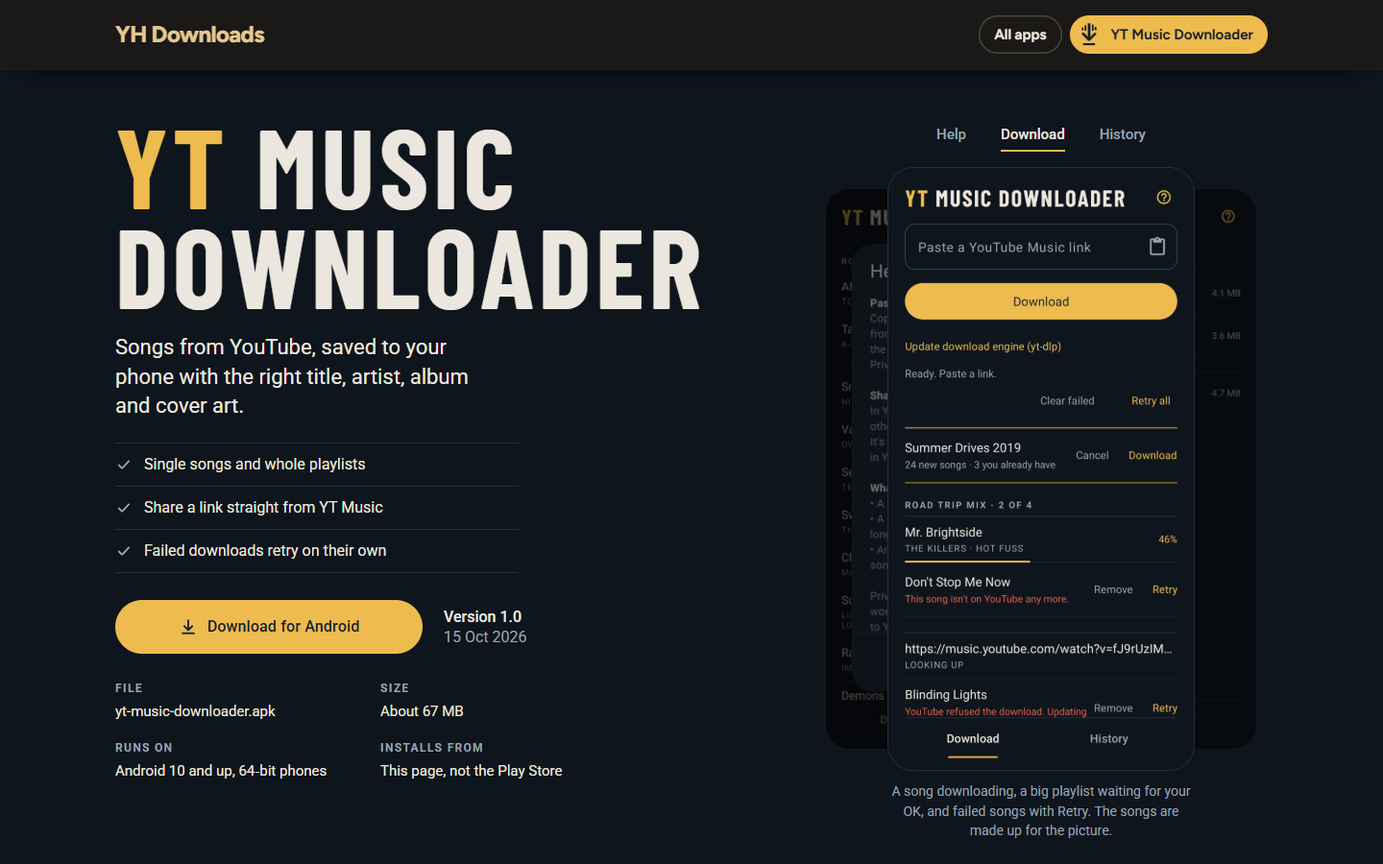
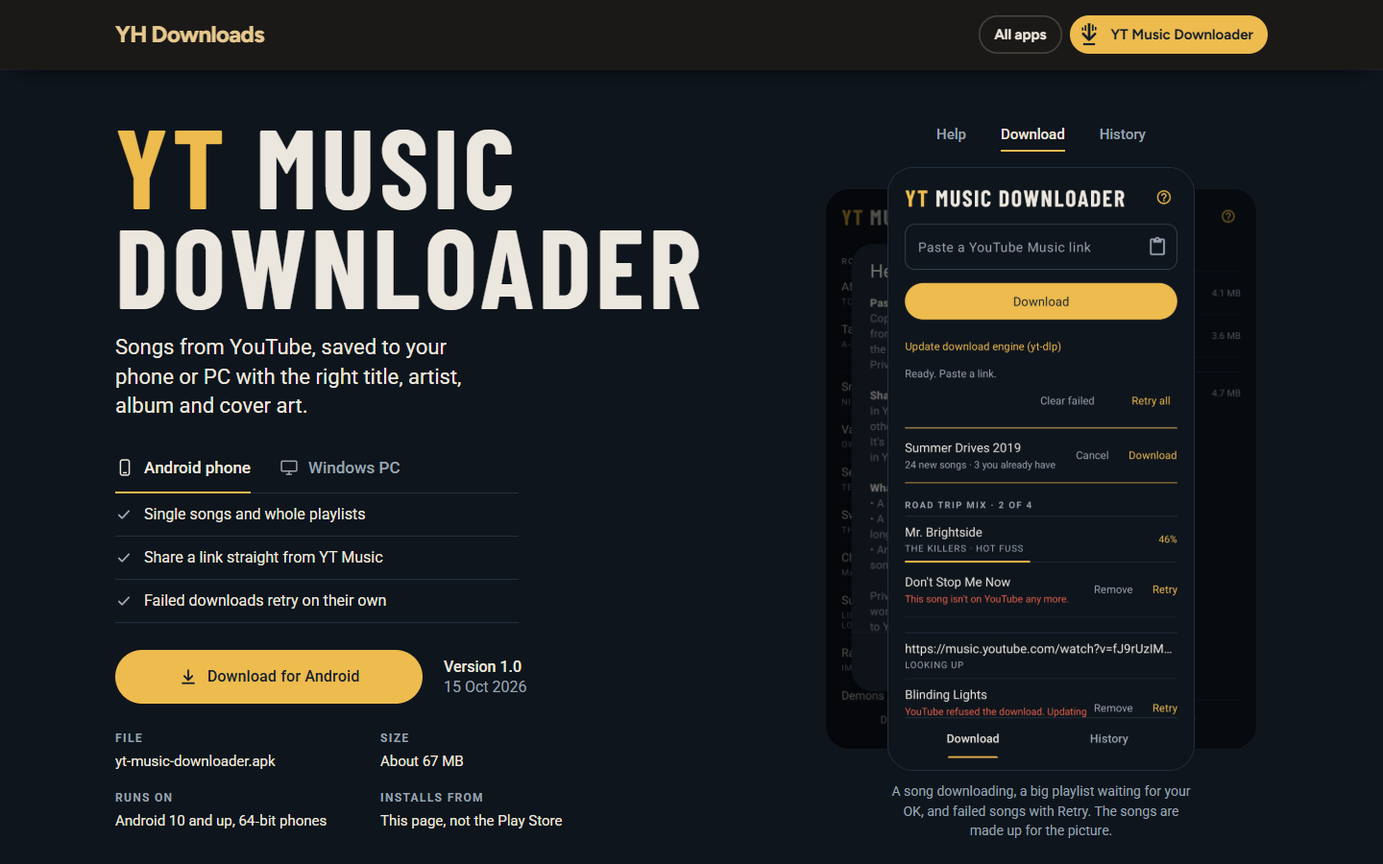
site: finish review fixes for the Windows version and the two-button card
Impeccable's finish review of the 26 Oct parts. All 7 fixes, plus the gap
under the Windows switch:
- What it's for's lists side by side only from 1100px
- Version and date under the button at 760-919px
- Window pictures 280px at 760-1279px, switch labels never wrap
- File credit gets its own row on phones
- Windows Setup step 1's file name never breaks
- Catalogue: versions under the buttons at 760-899px, buttons capped under 760px
- Windows facts sit right under the switch, like Android

DESIGN.md, the surface briefs and finish-review.md cover the new parts.

Changed region(s): [[0.0625, 0.6844, 0.4062, 0.9644], [0.0625, 0.5289, 0.2812, 0.6533], [0.0938, 0.4044, 0.3438, 0.4978]]

diff --git a/yt-music-downloader/index.html b/yt-music-downloader/index.html
@@ -95,6 +95,8 @@ b{font-weight:500; color:var(--ink)}
 .specs div{min-width:0}
 .specs dt{font-size:11.5px; font-weight:700; letter-spacing:.14em; text-transform:uppercase; color:var(--grey)}
 .specs dd{margin:4px 0 0; font-size:15px; overflow-wrap:anywhere}
+/* On phones the file name gets a whole row, so it doesn't break in the middle. */
+@media (max-width:559px){.specs div:first-child{grid-column:1 / -1}}
 
 /* The app, as three real phone screenshots in a stack: the one showing in front in the
    middle, the other two peeking out behind it, one each side. Text tabs over it, in the
@@ -137,6 +139,8 @@ b{font-weight:500; color:var(--ink)}
 .steps .t{padding-top:6px}
 .s{display:block; margin-top:2px; font-size:15px; line-height:1.45; color:var(--grey)}
 .or{margin:0 0 0 50px; font-size:15px; color:var(--grey)}
+/* A file name in a step never breaks at its hyphens. */
+.whole{white-space:nowrap}
 
 /* Between the groups of sections, a sound wave instead of a plain line. Its gold part
    is how much has "played": a third, two thirds, then all of it by the FAQ. Where the
@@ -217,7 +221,9 @@ b{font-weight:500; color:var(--ink)}
   .dots{display:block; flex:1 1 20px; min-width:20px; align-self:flex-end; margin-bottom:10px; border-bottom:2px dotted var(--outline)}
   .yes .s,.no .s{flex:none; margin:0; font-size:15px; white-space:nowrap}
 }
-@media (min-width:760px){
+/* Side by side only where both lists have room for their notes. Below that, "Made
+   for" sits above "Not", like on phones. */
+@media (min-width:1100px){
   .both{grid-template-columns:repeat(2,minmax(0,1fr)); padding:30px 0}
   .both > div{padding:0 34px}
   .both > div + div{border-left:1px solid var(--highest)}
@@ -290,13 +296,15 @@ html[data-os="windows"] [data-for="android"]{display:none !important}
 
 /* The switch: the app's text tabs, bigger, with a drawn phone and a drawn PC. */
 .os{display:flex; gap:30px; max-width:420px; margin:26px 0 0; border-bottom:1px solid var(--highest)}
-.os button{position:relative; display:inline-flex; align-items:center; gap:10px; min-height:48px; padding:10px 0 14px; border:0; background:none; color:var(--grey); font:500 17px/1.2 'Roboto',sans-serif; cursor:pointer}
+.os button{position:relative; display:inline-flex; align-items:center; gap:10px; min-height:48px; padding:10px 0 14px; border:0; background:none; color:var(--grey); font:500 17px/1.2 'Roboto',sans-serif; white-space:nowrap; cursor:pointer}
 .os button svg{width:20px; height:20px; flex:none}
 .os button::after{content:""; position:absolute; left:0; right:0; bottom:-1px; height:2px; background:var(--gold); transform:scaleX(0); transition:transform .35s cubic-bezier(.16,1,.3,1)}
 .os button[aria-selected="true"]{color:var(--ink)}
 .os button[aria-selected="true"]::after{transform:scaleX(1)}
 @media (hover:hover){.os button:hover{color:var(--ink)}}
-.os + .facts{margin-top:0; border-top:0}
+/* The facts sit right under the switch, with no line of their own on top. "~", not "+",
+   cause on Windows the hidden Android facts come between them. */
+.os ~ .facts{margin-top:0; border-top:0}
 /* The same switch again where the details start, for someone who scrolled down. */
 .again{grid-column:1 / -1; display:flex; flex-wrap:wrap; align-items:center; column-gap:22px; row-gap:6px; margin-top:-12px}
 .again p{margin:0; font-size:15px; color:var(--grey)}
@@ -334,7 +342,13 @@ html[data-os="windows"] [data-for="android"]{display:none !important}
   .intro{grid-template-rows:repeat(6,auto) 1fr}
   .os{grid-column:1}
   .shots{grid-row:2 / span 6}
-  .shots.win{--w:300px}
+  .shots.win{--w:280px}
+}
+/* Narrow tablets: the version and date go on one line under the button, so the
+   pictures beside them don't cover them. */
+@media (min-width:760px) and (max-width:919px){
+  .get{flex-wrap:wrap; row-gap:10px}
+  .ver{flex-direction:row}
 }
 @media (min-width:1280px){
   .intro{grid-template-rows:repeat(6,auto) 1fr}
@@ -520,7 +534,7 @@ html[data-os="windows"] [data-for="android"]{display:none !important}
       <p class="hint">Tap a step to see its screen.</p>
       <div class="pair">
         <ol class="steps">
-          <li><span><span class="t">Download it</span><span class="s">Then open <b>yt-music-downloader-setup.exe</b>.</span></span></li>
+          <li><span><span class="t">Download it</span><span class="s">Then open <b class="whole">yt-music-downloader-setup.exe</b>.</span></span></li>
           <li class="on" data-shot="smartscreen" data-cap="SmartScreen hasn't seen my apps before, cause they're not from the Microsoft Store, so it warns. More info shows Run anyway." tabindex="0"><span><span class="t">Get past SmartScreen</span><span class="s"><b>More info</b>, then <b>Run anyway</b>.</span></span></li>
           <li data-shot="location" data-cap="It picks where to install for you." tabindex="0"><span><span class="t">Install it</span><span class="s"><b>Next</b>, then <b>Next</b> again.</span></span></li>
           <li data-shot="finish" data-cap="It adds a desktop shortcut and a Start menu entry too." tabindex="0"><span><span class="t">Finish</span><span class="s">Leave <b>Run</b> ticked, then <b>Finish</b>.</span></span></li>

diff --git a/index.html b/index.html
@@ -105,6 +105,8 @@ a{color:inherit}
   .os{font-size:16px}
   .ver{text-align:center}
   .dls ~ .more{flex:1 1 100%; text-align:center}
+  /* Small tablets: the buttons stop growing, so they aren't mostly empty gold. */
+  .two .acts{max-width:440px}
 }
 /* The smallest phones: a little less room inside each button. */
 @media (max-width:359px){
@@ -123,6 +125,13 @@ a{color:inherit}
   .get{display:contents}
   .dls .dl{justify-content:center}
   .two .more{grid-column:2; grid-row:2; align-self:start; justify-self:start}
+}
+/* Narrow desktop widths: each version goes under its button, which leaves the card's
+   text more room. */
+@media (min-width:760px) and (max-width:899px){
+  .dls{grid-template-columns:auto; gap:14px}
+  .get{display:grid; justify-items:stretch; row-gap:6px}
+  .ver{text-align:center}
 }
 </style>
 </head>

diff --git a/DESIGN.md b/DESIGN.md
@@ -162,13 +162,17 @@ Each app card sets three custom properties inline, from its app's own look: `--c
 
 ## Layout
 
-The catalogue is one centred column, 1080px wide, with 16px side padding on phones and 40px from 760px. The title block sits top left; the card list follows 40px below (56px from 760px), cards stacked with a 14px gap (16px from 760px). One breakpoint, 760px, carries the whole catalogue.
+The catalogue is one centred column, 1080px wide, with 16px side padding on phones and 40px from 760px. The title block sits top left; the card list follows 40px below (56px from 760px), cards stacked with a 14px gap (16px from 760px). 760px carries the whole catalogue for a one-button card. A two-button card adds two more: 360px and 900px.
 
 From 760px a card is a three-column grid: the 80px icon, the text, and an actions column on the right with the download pill over the "Setup, how to use it, FAQ" link, both right-aligned. Under 760px a card has one left edge: the 60px icon sits beside the name, and the line, version line, a full-width download pill and the link all start at the card's left edge beneath them. The dashed slot's text lines up with the icon's left edge at every width.
+
+A two-button card (an app with an Android and a Windows version) lays out its own way. From 760px the two buttons sit up and down in the right column, the same width, and the pair is centred on the card's height. "Setup, how to use it, FAQ" moves under the card's text on the left, so the buttons sit alone in the card's middle. From 900px each version sits to its button's right. At 760 to 899px it goes under its button instead, centred, so the text keeps more room. Under 760px the two buttons stay side by side and share the width, each with its version centred under it, and the link is centred under both. The whole button area stops at 440px, so on a small tablet the buttons aren't mostly empty colour. Under 360px the buttons get a little less padding and a smaller arrow.
 
 On app pages the Warm header is sticky at the top, 72px tall from 760px, with the wordmark left and the chips right. Under 760px the chips take a second row of their own and scroll sideways. From 1100px the header's content lines up with the app page's own column.
 
 **The One Left Edge Rule.** On phones a card's content starts at one left edge, and the button runs the full width.
+
+A two-button card keeps the one left edge for its icon, name and text. Its two buttons share the width side by side instead, and its link is centred.
 
 ## Elevation & Depth
 
@@ -194,6 +198,7 @@ Warm, solid and friendly; the button always belongs to its app.
 - **Hover:** Brightens slightly (`filter: brightness(1.07)`, 0.2s) and the arrow drops 2px (0.25s, `cubic-bezier(.16,1,.3,1)`). Hover only applies on devices that hover.
 - **Focus:** 2px Champagne outline, 3px offset, 6px radius.
 - **Text link:** "Setup, how to use it, FAQ" in the app's `--btn` colour, 600 15px, underlined on hover with a 4px offset.
+- **Two downloads:** an app with two versions gets two buttons in the same `--btn` fill, never one solid and one quiet. They're smaller, so two fit beside the text: 44px tall, 18px side padding, 15px words, a 16px arrow, 20px apart up and down from 900px (14px at 760 to 899px). Each says "Download for Android" or "Download for Windows". Under 760px they grow to 52px and the words go in two lines left of centre, next to the arrow: "Download for" in 600 12px, the platform in 16px under it. Each button's version sits beside or under it in the Meta size, the number in 600 Card Ink.
 
 ### Cards / Containers
 - **Corner Style:** 28px, 32px from 760px.
@@ -202,6 +207,7 @@ Warm, solid and friendly; the button always belongs to its app.
 - **Border:** None.
 - **Internal Padding:** 20px 20px 22px; 24px 30px 24px 24px from 760px.
 - **Contents:** The app's own icon (or its first letter on `--btn` when it has no icon), the name, one line, a version line ("Version 1.0 · Android 10 and up, 64-bit phones · file name", the file name never breaking), then the actions.
+- **Two versions:** a card with class `two` swaps the version line for what each version needs ("Android 10 and up, 64-bit phones · Windows 10 and 11, 64-bit", each half never breaking), with no file names. The versions move under the buttons, and the actions follow the two-button layout in Layout. A card without `two` keeps the one-button layout.
 
 ### Coming-Soon Slot
 A dashed, card-shaped placeholder under the last app, reading "And more apps to come…" in 600 Muted Taupe at 17px (18px from 760px). 76px tall (84px from 760px). No fill, no shadow.
@@ -258,7 +264,7 @@ Source: the app repo's DESIGN.md. Navy ground, warm ink, one gold, set like an a
 - Roboto 400 for text (17px, 1.5), 500 for emphasis, step titles, tabs and the pill. Hook 19px, 22px from 1100px.
 - Credit labels: 700, 11.5 to 12px, 0.14em tracking, uppercase, Grey; they label a fact or a list ("File", "Size", "Made for", "Not").
 
-**Layout:** one 1200px column with a 20px gutter (32px from 760px, 56px from 1100px). The first screen puts name, hook, facts, the pill with its version and date, and the credits on the left, and the phone stack on the right from 760px; on phones the pill comes before the picture. Below, Setup and How to use it sit side by side from 900px, then What it's for and the FAQ across both columns. Breakpoints: 560px, 760px, 900px, 1100px, 1280px.
+**Layout:** one 1200px column with a 20px gutter (32px from 760px, 56px from 1100px). The first screen puts name, hook, the version switch, facts, the pill with its version and date, and the credits on the left, and the phone stack (or the window stack) on the right from 760px; on phones the pill comes before the picture. The version and date sit beside the pill from 920px, and on one line under it at 760 to 919px, so the pictures beside them don't cover them. Under 560px the File credit takes a whole row. Below, the switch shows again, then Setup and How to use it sit side by side from 900px, then What it's for and the FAQ across both columns. What it's for puts "Made for" and "Not" side by side only from 1100px, where both lists have room for their notes; below that "Made for" sits above "Not". Breakpoints: 560px, 760px, 900px, 920px, 1100px, 1280px.
 
 **Components:**
 - **Gold pill:** 56px tall, full pill, Gold fill, Navy text, 500 16px, at least 320px wide from 760px, pressing down 1px.
@@ -268,4 +274,11 @@ Source: the app repo's DESIGN.md. Navy ground, warm ink, one gold, set like an a
 - **Credits lines:** a tick or cross in a 30px Highest disc, the item, a 2px dotted Outline leader, a short Grey note.
 - **Sound-wave divider:** a 32px bar-wave mask between section groups, its Gold part filling a third, two thirds, then all of it, animated on scroll where the browser supports it.
 - **FAQ:** hairline-ruled disclosures, a Gold plus that turns to a cross when open.
+- **Version switch:** "Android phone / Windows PC", the text tabs made bigger (500 17px, 48px tall, 30px apart), each led by a 20px drawn phone or PC, on a 1px Highest rule up to 420px wide. The whole page follows it. It sits under the hook, with the facts straight under it and no rule of their own on top, and again where the details start, after a Grey "Steps and answers for" and with no rule. Both move together. Which one shows is set in the page's head before anything draws, a Windows PC on Windows and everyone else on Android, and `?os=` in the link picks one.
+- **Window stack:** the phone stack with the Windows app's windows in it. Same swap and dimming, an 8px corner, the side ones peeking out by a tenth of its width. min(80vw, 330px) wide on phones, 280px from 760px, 420px from 1280px.
+- **Android-only tag:** "(Android only)" after a tab's name in plain Grey 400, not small capitals. The tab is 40px from the next one, and on narrow phones the tag drops under the name.
+- **Mini switch:** small text tabs (500 14px, 36px tall, 18px apart) above a step's pictures, the same Gold underline, for when a picture has an Android and a Windows version. It starts on the version you're on, swaps only the pictures and caption, and shows only while its step's picture does.
+- **See the FAQ link:** at the end of a step's Grey words, in the same Grey, underlined in Outline with a 3px offset; Gold text and underline on hover. It opens its FAQ answer, not just scrolls to it.
+- **Two pictures in a step:** one under the other, 10px apart, in the same rounded Highest frame as one.
+- **Whole file names:** a file name inside a step never breaks, at its hyphens or anywhere.
 - **Hairlines:** 1px Highest everywhere a rule is needed; no shadows inside the app's own look.

diff --git a/.impeccable/surfaces/yt-music-downloader-index-html.md b/.impeccable/surfaces/yt-music-downloader-index-html.md
@@ -7,23 +7,31 @@ related_targets: []
 
 # YT Music Downloader's page
 
-Scope: one app's page, `yt-music-downloader/index.html`. Mode: Persuade. The visitor
-succeeds when they understand what the app does, trust it enough to install an APK from
-outside the Play Store, download it and get it set up.
+Scope: one app's page, `yt-music-downloader/index.html`, with two versions of the app
+on it: Android phone and Windows PC. Mode: Persuade. The visitor succeeds when they
+understand what the app does, trust it enough to install it from outside the Play Store
+or the Microsoft Store, download the right file and get it set up.
 
-- Audience: me, people I know, strangers. Most download on the Android phone it's for,
-  so phone width counts most.
+- Audience: me, people I know, strangers. Most download the APK on the Android phone it's
+  for, so phone width counts most. The Windows installer gets downloaded on a PC, so
+  desktop width counts for that version.
 - Job: show the app off like a small landing page, with the download right there. Then
-  Setup, How to use it, What it's for, and the FAQ.
-- Proof: real 1.0 screenshots (Download, History, Help), real install screenshots, and
-  facts from the app's repo. Nothing invented. The Download tab's songs are labelled as
-  made up for the picture.
+  Setup, How to use it, What it's for, and the FAQ. An "Android phone / Windows PC"
+  switch under the app's line picks the version, and the whole page follows it.
+- Proof: real screenshots of Android 1.0 (Download, History, Help) and Windows 1.0.0
+  (Downloading, History, Help), real install screenshots for both, the phone's music
+  player and Windows' Media Player playing a downloaded song, and facts from the app's
+  repos. Nothing invented. The Download tabs' songs are labelled as made up or test
+  songs. Private parts (other songs, the username) are blurred or cropped out.
 - Constraints: wears the app's own look, Liner Notes. The site header is in the
-  catalogue's Warm look. Version and date sit beside the button. "Is this legal?" stays
-  out of the FAQ for good. Only what's true and public. Fonts come from the site itself
-  (`assets/fonts/`), never another server. The site's "YH" tab icon, not the app's.
-- Memorable moment: three real phone screens in a stack with the app's tab style over
-  them, and a sound wave between section groups that fills gold as you scroll.
+  catalogue's Warm look. Version and date sit beside each version's button. "Is this
+  legal?" stays out of the FAQ for good. Only what's true and public. Fonts come from the
+  site itself (`assets/fonts/`), never another server. The site's "YH" tab icon, not the
+  app's. A Windows PC opens on Windows, everything else on Android, set before the page
+  draws. `?os=android` or `?os=windows` on the link picks one.
+- Memorable moment: three real screens in a stack with the app's tab style over them
+  (phones on Android, the app's windows on Windows), and a sound wave between section
+  groups that fills gold as you scroll.
 - Unresolved: whether the sticky header goes to one row on phones.
 
 Written 2026-10-16 from what shipped, before the finish review. The build went straight
@@ -31,6 +39,8 @@ from the picked mockup to the site with no contract on record. Updated the same 
 after the user's stack change and the review fixes: the front phone moved to the centre,
 the tabs became Help, Download, History, step screens open inside the step on phones,
 and the phone cut-off was found and fixed (the name in its stand-in font on a slow load).
+Updated 2026-10-26 for the Windows version, built from the OK'd mockup
+`.impeccable/mocks/both-platforms/src/tabs.html`, before its finish review.
 
 ## Direction contract
 
@@ -47,29 +57,42 @@ Barlow arrives, the name draws in Roboto shrunk to Barlow's width, so it never c
 Hairlines, small spaced-capital credit labels, the gold pill, text tabs with a gold
 underline, numbered rings on a thin line, credits lines with dotted leaders.
 
-STORY: the visitor reads the name and one line, three facts, sees the button with its
-version and date and the file's credits, and sees the real app. Below, they learn how to
-get past Play Protect, the two ways to use it, what it is and isn't, and find answers.
+STORY: the visitor reads the name and one line, sees the page is already on their
+version (or switches it), three facts, the button with its version and date and the
+file's credits, and the real app. Below, they learn how to get past Play Protect or
+SmartScreen, how to use it, what it is and isn't, and find answers.
 
 FIRST VIEWPORT: one 1200px column. From 1280px, left: two-line name up to 116px with
-"YT" in gold, hook at 22px, three ticked facts on hairlines, the gold pill (at least
-320px) with version and date beside it, then credits in two columns. Right: a 320px
-phone stack, the front phone in the centre and the other two peeking out one each side,
-dimmed. Help, Download and History tabs over it, in that order, and a caption under it.
+"YT" in gold, hook at 22px, the version switch (the app's text tabs, bigger, 17px, a
+drawn phone and a drawn PC, gold underline on the picked one, up to 420px wide), three
+ticked facts on hairlines under it, the gold pill (at least 320px) with version and date
+beside it, then credits in two columns. Right: the stack, the front screen in the centre
+and the other two peeking out one each side, dimmed. On Android, 320px phones with Help,
+Download and History tabs over it. On Windows, the app's windows at 420px (300px at
+760px, up to 330px on phones), with Help, Downloading and History. A caption under it.
 On phones, one column, the name at 15vw, and the download button is on the first screen
 at 390px with the picture after it.
 
-SIGNATURE INTERACTION: a tab over the stack, or a click on a peeking phone, swaps that
-screen with the centre one (0.55s ease-out). The tabs stay in one order and the gold
-underline moves. On load the side phones match the tabs: Help left, History right. A step
-with a picture shows its real screen beside the steps and takes a gold ring. On phones
-(under 560px) the screen opens inside the tapped step, under its text, and a grey line
-under Setup and How to use it says "Tap a step to see its screen." The wave fills gold on
-scroll: a third, two thirds, then all of it by the FAQ.
+SIGNATURE INTERACTION: the version switch swaps every part of the page at once: facts,
+button, version and date, credits, screens, Setup, How to use it, What it's for's items
+and the FAQ. The same switch shows again where the details start, after "Steps and
+answers for", and both move together. A tab over the stack, or a click on a peeking
+screen, swaps that screen with the centre one (0.55s ease-out). The tabs stay in one
+order and the gold underline moves. On load the side screens match the tabs: Help left,
+History right. A step with a picture shows its real screen beside the steps and takes a
+gold ring. On phones (under 560px) the screen opens inside the tapped step, under its
+text, and a grey line under Setup and How to use it says "Tap a step to see its screen."
+On Android, How to use it has two text tabs, "Paste a link" (first, open by default) and
+"Share from YT Music" with "(Android only)" in plain grey after it. "Play it" has its own
+small Android phone / Windows PC switch above its pictures, starting on the version
+you're on, so either player can be seen from either version. Windows' "Play it" shows two
+pictures, one under the other. Each "Play it" ends on "See the FAQ", which opens that
+answer. The wave fills gold on scroll: a third, two thirds, then all of it by the FAQ.
 
 FORM: user-pinned. The Two-Ink Riso layout (a challenger in the first direction round),
 re-skinned in the app's Liner Notes look on 2026-10-16. The surface round `626a70e0`
 drew three fresh structures (album back cover, app screen, tags before and after), and
-all three lost to it.
+all three lost to it. The Windows version came in 2026-10-26 as the Tabs direction, over
+Merged (one page for both, two buttons, one table of files) and a page each.
 
 FINISH: unreviewed and undocumented is unfinished; this build ends with the finish review, the verdict, DESIGN.md, and every shipping raster carrying its provenance

diff --git a/doc/finish-review.md b/doc/finish-review.md
@@ -114,3 +114,59 @@ committed). How each was done:
    so the docs got fixed, not the page.
 5. ~~Update `live-design-choices/downloads-page.md` with what changed~~ Done 16 Oct, then
    commit and push.
+
+# Second review, 26 Oct: the Windows version and the two-button card
+
+Same way as 16 Oct, for the parts added 26 Oct: the Android phone / Windows PC switch
+and everything it swaps on YT Music Downloader's page, How to use it's changes (Paste
+first, "(Android only)", Play it's pictures and small switch, See the FAQ), and the
+catalogue's two-button card. A fresh reviewer per page. Both said **fix**. **All 7
+applied 26 Oct, my call**, after one sheet of before and after pictures
+(`.playwright-cli/fix-mocks-2610/fixes-1-to-7.png`, not committed). Second round, same
+reviewers: every fix resolved, **both pages "ship"**, for the fixes scored, not a fresh
+full review.
+
+[Before the review, the two surface briefs in `.impeccable/surfaces/` were brought up
+to date for these parts, cause the reviewers check against them. Screenshots in
+`.impeccable/review/`: both versions at 1440, 760 and 390 (`windows-*` for Windows),
+the tall ones cut into `parts/`, the states the full pages don't show (`state-*`), and
+each fix as built in `fixes-2610/`.]
+[The reviewers had no screenshot between 900 and 1099 wide, so Claude measured every
+20px from 760 to 1100 before and after. The ranges below are from that.]
+[The detector found nothing to fix: only notes that some colours and font sizes aren't
+in `DESIGN.md` yet.]
+
+## Small fixes you'd barely notice
+
+| # | Page | What was wrong | Fix |
+|---|---|---|---|
+| 1 | App page, both | 760 to 919 wide: the phone pictures covered the version and date at 760, and up to 919 they wrapped to 3 or 4 lines | Version and date on one line under the button at those widths |
+| 2 | App page, Windows | 760 to about 780: the switch's labels broke into "Android / phone", "Windows / PC" | Window pictures 280px from 760 to 1279 (were 300), and the labels never wrap |
+| 3 | App page, Windows | Setup step 1 broke "yt-music-downloader-" / "setup.exe" on desktop | The file name never breaks (`.whole`) |
+
+## Changes you'd see, my call
+
+| # | Page | What was wrong | Fix | Tradeoff |
+|---|---|---|---|---|
+| 4 | App page, both | 760 to about 990: What it's for's notes ran under the other list's crosses, and up to about 830 the page scrolled sideways. Bigger than the known "760 sideways scroll" | The two lists side by side only from 1100. Below that, "Made for" over "Not" | Taller panel on tablets |
+| 5 | App page, both | On phones the file name broke in the File credit | File gets a whole row on phones | One more row, "Installs from" alone at the end |
+| 6 | Catalogue | 760 to 899: the card's text in a 181px column, name on 2 lines, the line on 5, card 332px tall | Each version under its button at those widths. Card 250px at 760 | Not "version on the right" at those widths |
+| 7 | Catalogue | 560 to 759: each button up to 340px wide, mostly empty gold | The two buttons stop at 440px together, about 215px each | Empty navy beside them |
+
+**Found by me after the review, fixed 26 Oct:** on the Windows version there was a gap
+and an extra line between the switch and the facts. The rule that pulls the facts up
+under the switch only matched the list right after it, which is the hidden Android one.
+Both reviewers missed it. Now `.os ~ .facts`, so it matches either list.
+
+Also done, nothing on screen: the catalogue brief had Impeccable's short seed key in it,
+which shouldn't be there. It now says that round's full seed reference wasn't kept.
+
+## Left open
+
+- **Catalogue card height jumps at 900 wide**, from the second round. 204px at 880 to
+  899, 250px at 900 to 999, then 204px again. You only see it while resizing. Optional
+  fix: run fix 6 up to 999 instead of 899. Not answered yet.
+- At 760 the Windows File credit still breaks into two lines, cause fix 5 is phones
+  only. The reviewer let it be: two lines, down from three.
+- One idea from the app page's reviewer, not a fix: the Windows "Play it" library
+  picture is too small to read on desktop. A click to enlarge would help.

diff --git a/.impeccable/surfaces/index-html.md b/.impeccable/surfaces/index-html.md
@@ -13,8 +13,11 @@ visitor succeeds when they find an app and get its file, or open its page.
 - Audience: me, people I send the link to, strangers who land on it.
 - Job: see what apps there are, tell what each does from one line, then download from
   the card or open the app's page.
-- Content: real apps only. Name, one line, version, Android version (and 64-bit when the
-  app needs it), file name. No user counts, reviews or ratings exist, so none appear.
+- Content: real apps only. Name, one line, version, what it runs on (and 64-bit when the
+  app needs it). A one-download card also has the file name. No user counts, reviews or
+  ratings exist, so none appear.
+- An app with an Android and a Windows version gets two buttons on its card (class
+  `two`), one per file, each with its version. YT Music Downloader is the first.
 - Constraints: the site's own look, apart from every app's. Each app's card wears that
   app's colours. Dark. Download links never change. Fonts come from the site itself
   (`assets/fonts/`), never another server. Tab icon: "YH" in champagne on charcoal.
@@ -25,6 +28,8 @@ visitor succeeds when they find an app and get its file, or open its page.
 Written 2026-10-16 from what shipped, before the finish review. The build went straight
 from the picked mockup to the site with no contract on record. Updated the same day after
 the review fixes and the user's new phone card layout (one left edge, full-width button).
+Updated 2026-10-26 for the two-button card, built from the OK'd mockup
+`.impeccable/mocks/both-platforms/src/catalogue.html`, before its finish review.
 
 ## Direction contract
 
@@ -50,8 +55,19 @@ start at the card's left edge under them. The dashed slot's text lines up with t
 at every width. The first app's download button is inside the first viewport at 390px
 and at 1440px.
 
-FORM: the Contents page (round 1's pick) restyled as Warm (round 3, `soft-warm`), seed
-key `0d64e648`. Changed from the mockup: champagne title, cards in each app's colours,
+TWO-BUTTON CARD: two gold pills in the app's colours, smaller than the one-button card's
+(44px tall, 15px words), each "Download for Android" / "Download for Windows" with its
+version. The line under the card's text says what each runs on: "Android 10 and up,
+64-bit phones · Windows 10 and 11, 64-bit". No file names on this card. From 760px the
+two buttons are up and down at the right, the same width, 20px apart, each with its
+version to its right, and their middle lines up with the card's middle. "Setup, how to
+use it, FAQ" moves under the card's text on the left. The card is 204px tall. On phones
+the two buttons sit side by side, sharing the width, each with "Download for" small over
+the platform, left, next to the arrow, and its version centred under it. "Setup, how to
+use it, FAQ" is centred under them. The rest of the phone card keeps one left edge.
+
+FORM: the Contents page (round 1's pick) restyled as Warm (round 3, `soft-warm`). That
+round's full seed reference wasn't kept. Changed from the mockup: champagne title, cards in each app's colours,
 placeholder apps out, dashed slot in.
 
 FINISH: unreviewed and undocumented is unfinished; this build ends with the finish review, the verdict, DESIGN.md, and every shipping raster carrying its provenance
